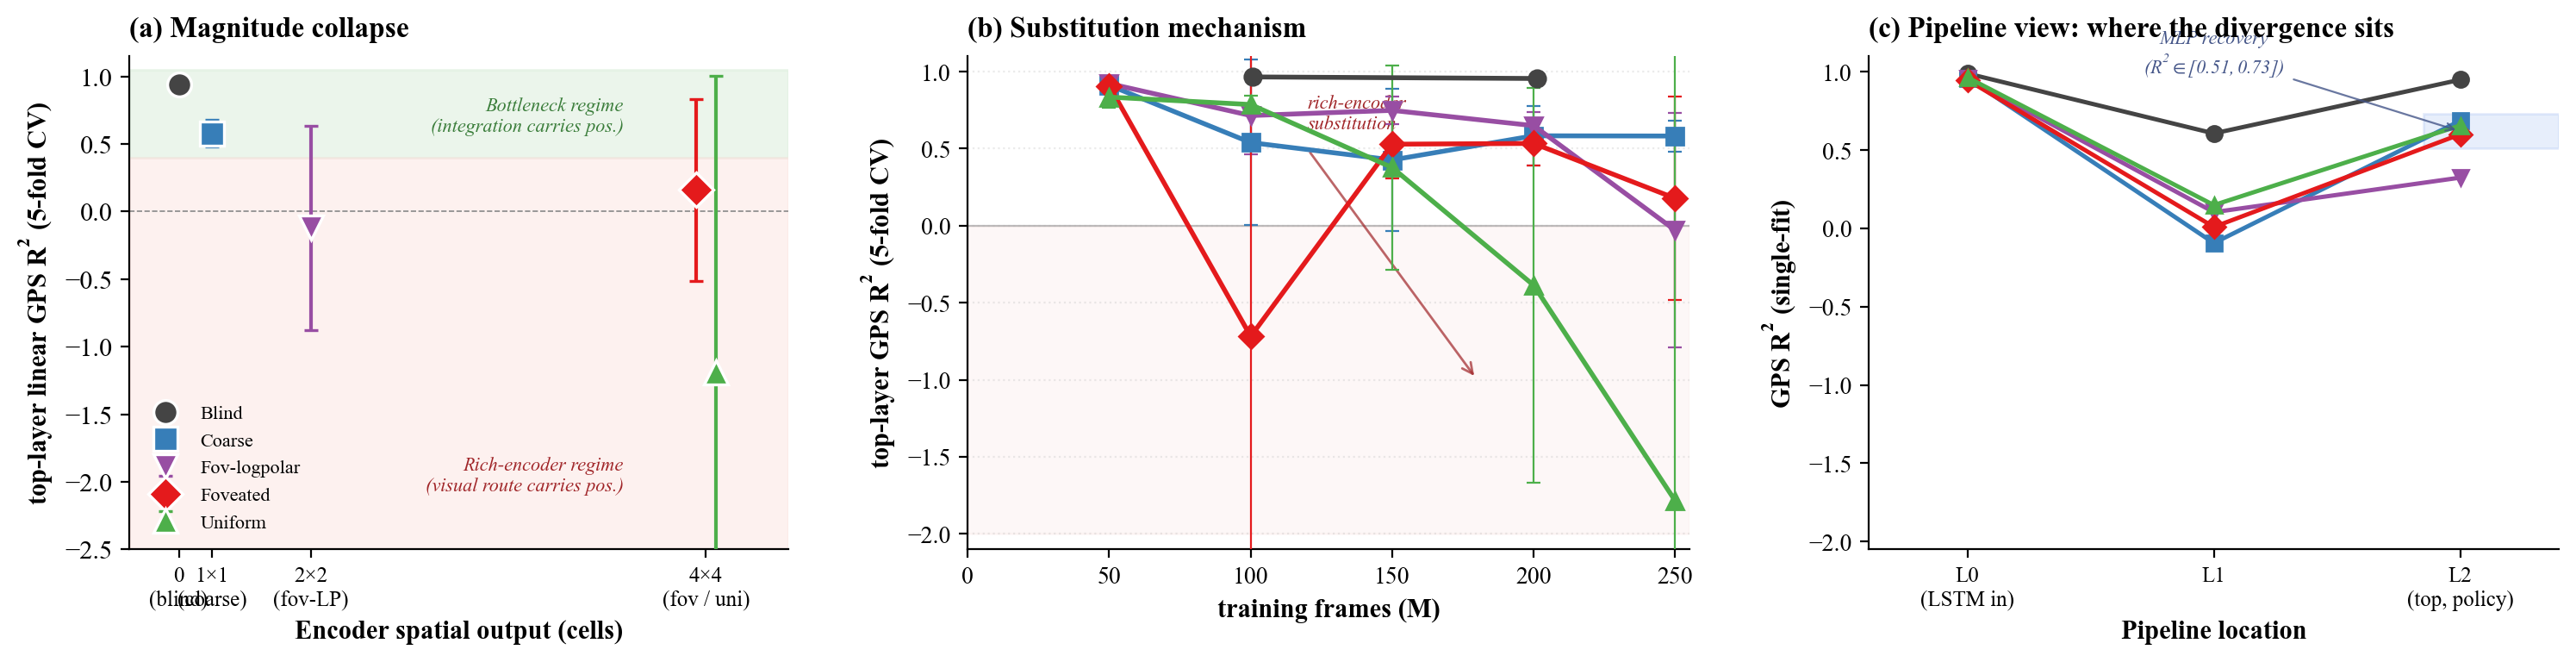
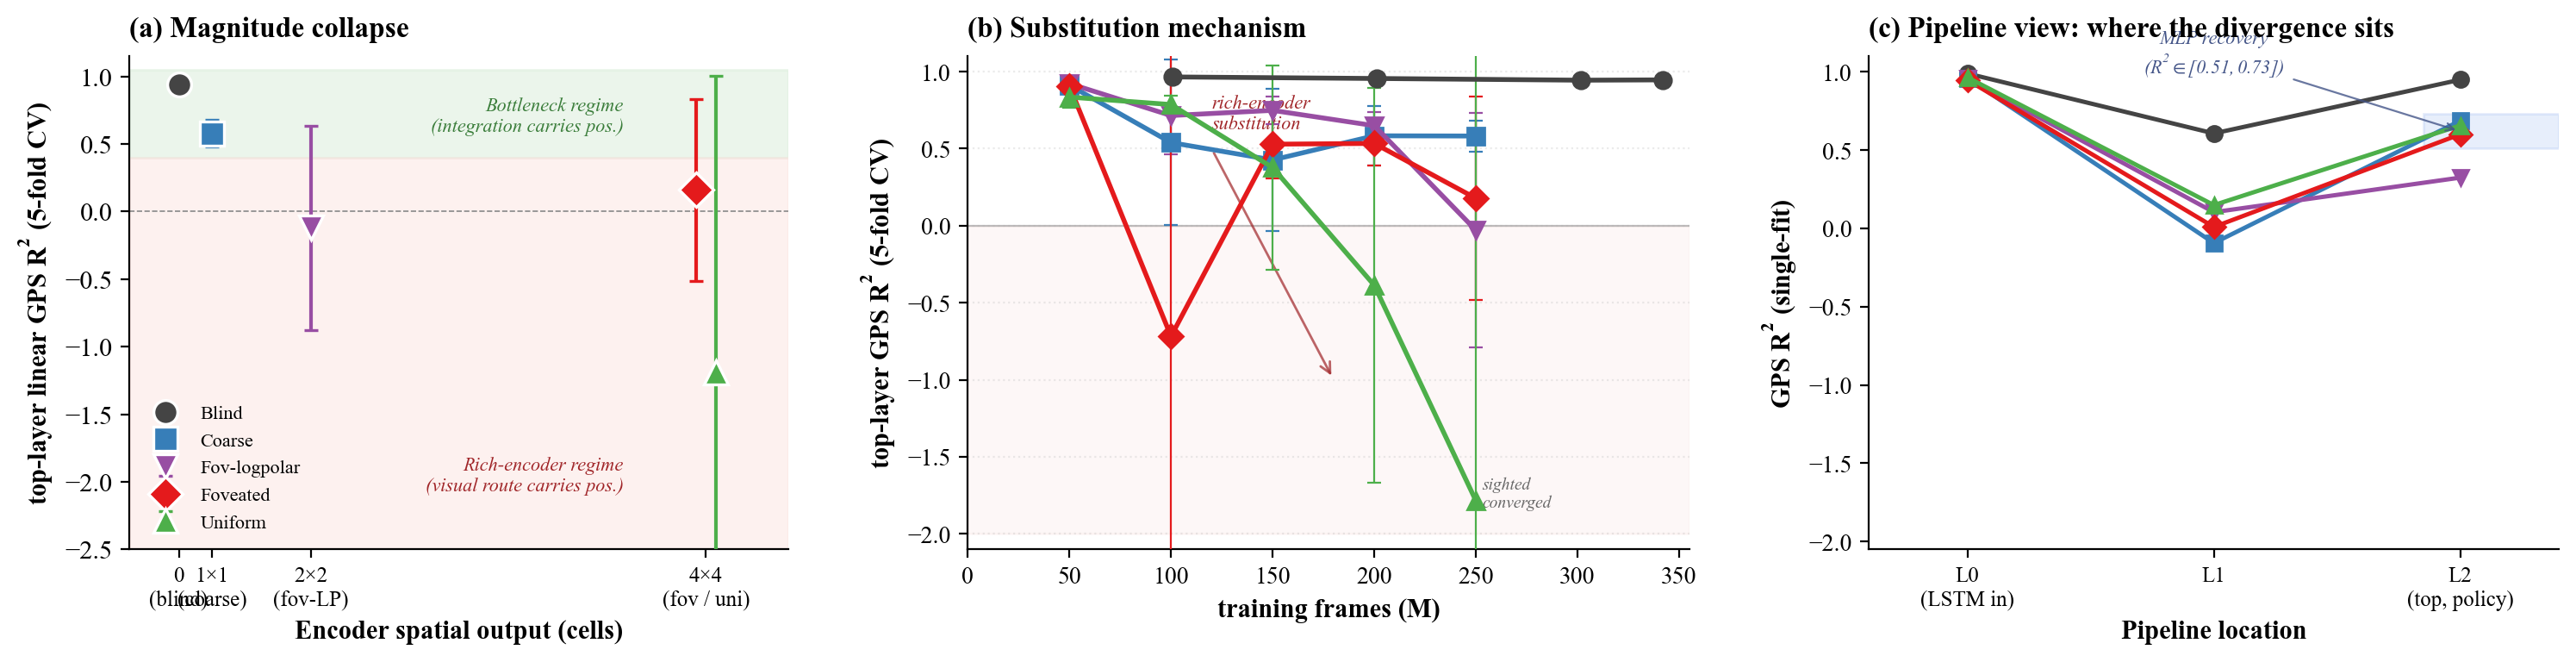
fig_magnitude Panel B: extend X-axis to 350M to show full blind sweep
Blind trained for 340M (ckpts 10/20/30/34 = 100/200/300/342M, frames_per_ckpt
=10.06) but the X-axis was capped at 250M to match sighted convergence. Result:
blind appeared as just 2 points (100M, 200M) with the rest cropped.

Fix: extend X_MAX_M to 350M and add a vertical dashed marker at 250M labelled
'sighted converged'. Blind now shows all 4 ckpts (held at R^2 ~0.95 throughout
training — the bottleneck-holds-the-code story); sighted curves end naturally
at 250M.

Also dropped duplicate blind converged point: ckpt34 (342M) and
blind_izar_det_analysis.json (340M) yield identical R^2=0.9465 to 4 decimals
— same .pth probed via two scratch dirs.

diff --git a/scripts/paper_figures/make_magnitude_3panel.py b/scripts/paper_figures/make_magnitude_3panel.py
@@ -51,7 +51,8 @@ CONDS = [
     ("uniform",          "uniform",           "Uniform",       16, "#4daf4a", "^", 5.0),
 ]
 CLIP_MIN = -2.0
-X_MAX_M = 250.0
+X_MAX_M = 350.0  # extended to include blind 340M ckpt; sighted converged @250M
+SIGHTED_CONVERGED_M = 250.0  # marker for sighted-condition endpoint
 RCP_DIR = Path("/tmp/rcp_analysis")
 LEGACY_BLIND_DIR = Path("results/probing_results")  # blind kept per memory
 
@@ -126,6 +127,9 @@ def panel_b(ax) -> None:
         points = []
         if rcp_key == "blind_izar":
             # Legacy blind ckpt sweep (10/20/30/34) — frames_per_ckpt=10.06
+            # ckpt34 (342M) IS the converged endpoint (matches blind_izar_det
+            # in /tmp/rcp_analysis/ to 4 decimals; same .pth probed twice).
+            # Blind trained for 340M total; sighted converged at 250M.
             for ck in (10, 20, 30, 34):
                 p = LEGACY_BLIND_DIR / f"blind_gibson_ckpt{ck}_det_analysis.json"
                 v = _read_ckpt_value(p)
@@ -174,6 +178,11 @@ def panel_b(ax) -> None:
 
     ax.set_ylim(CLIP_MIN - 0.10, 1.10)
     ax.set_xlim(0, X_MAX_M + 5)
+    # Marker for sighted-conditions convergence endpoint
+    ax.axvline(SIGHTED_CONVERGED_M, ls="--", color="#888", lw=0.7, alpha=0.6,
+               zorder=1)
+    ax.text(SIGHTED_CONVERGED_M + 3, -1.85, "sighted\nconverged",
+            fontsize=7, color="#666", ha="left", va="bottom", style="italic")
     ax.set_xlabel("training frames (M)", fontsize=11, fontweight="bold")
     ax.set_ylabel(r"top-layer GPS $R^2$ (5-fold CV)", fontsize=11, fontweight="bold")
     ax.set_title("(b) Substitution mechanism",